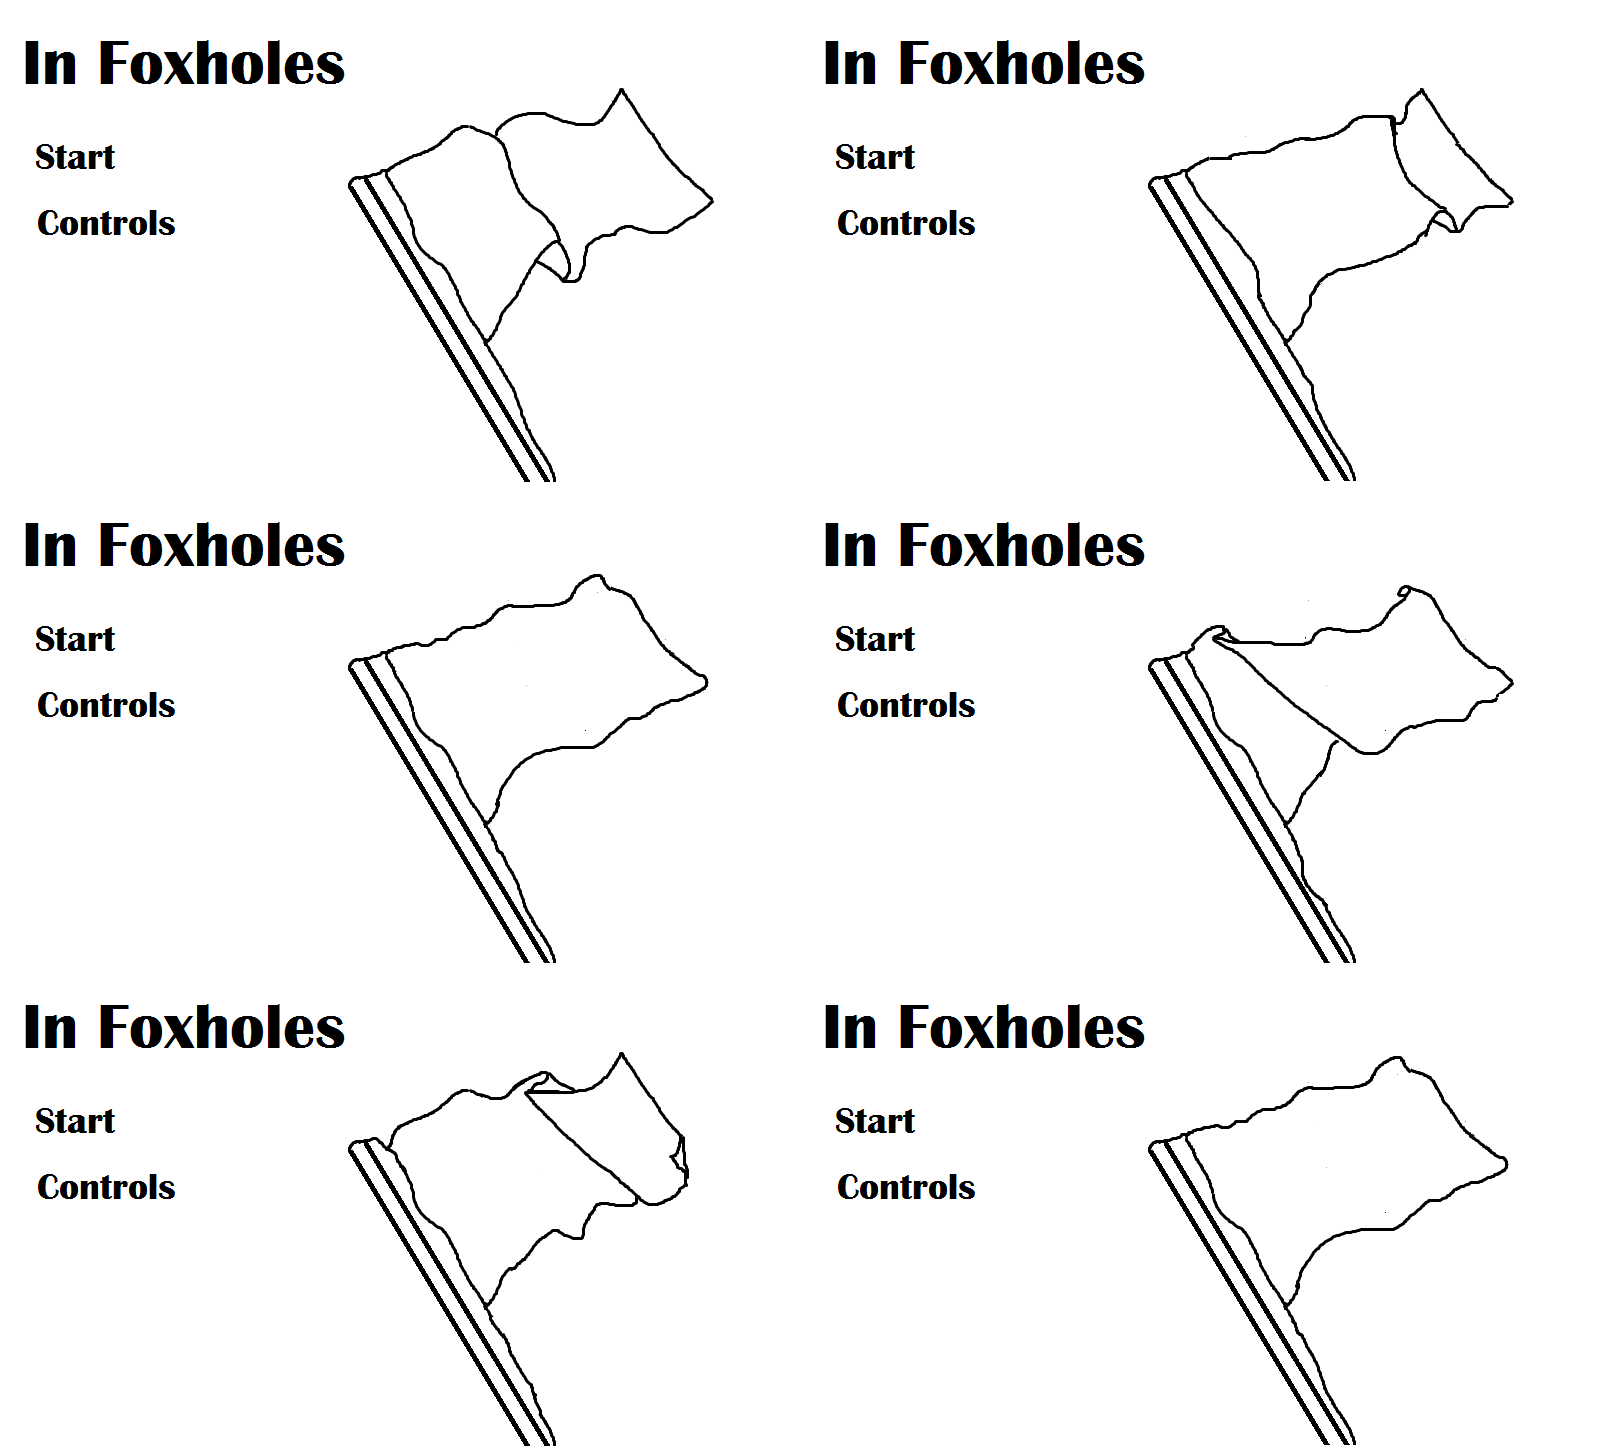
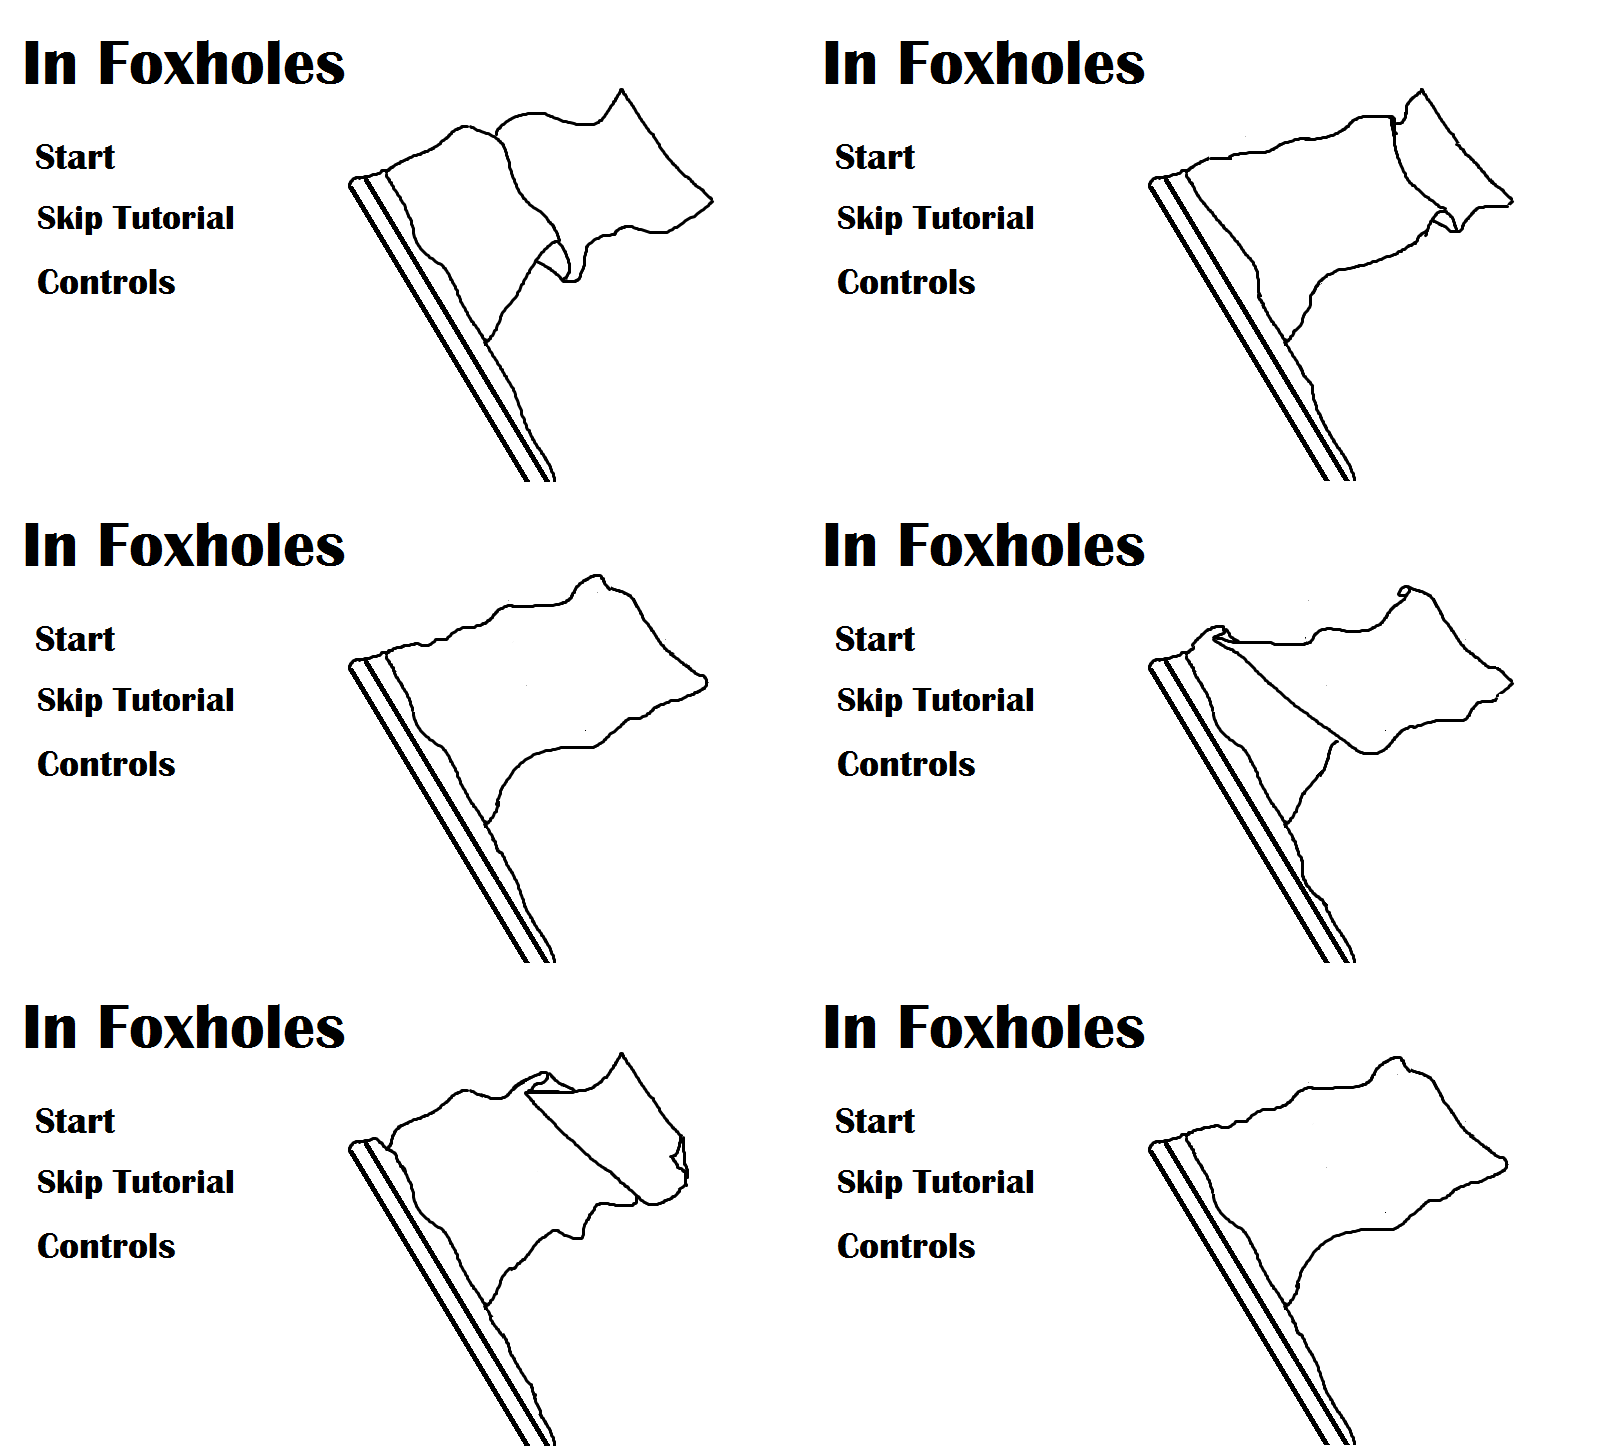
Added Tutorial Skipping

diff --git a/InFoxholes/Windows/Menu.cs b/InFoxholes/Windows/Menu.cs
@@ -5,6 +5,7 @@ using Microsoft.Xna.Framework.Input;
 using Microsoft.Xna.Framework.Audio;
 using Microsoft.Xna.Framework.Media;
 using System;
+using System.Collections.Generic;
 using InFoxholes.Util;
 
 
@@ -14,10 +15,14 @@ namespace InFoxholes.Windows
     {
         public AnimatedSprite menuTexture;
         Button startButton;
+        Button skipButton;
         Button controlsButton;
+        List<Button> buttonList;
+        List<bool> buttonListHover;
         public static Texture2D pixel;
         bool hoverFlag = false;
         bool hoverFlagControls = false;
+        bool hoverFlagSkip = false;
         public static bool isInControllerMenu;
         public ControllerMenu controllerMenu;
         int selectedButton;
@@ -30,12 +35,18 @@ namespace InFoxholes.Windows
         /* Magic Numbers */
         static int startButtonLX = 30;
         static int startButtonLY = 135;
-        static int startButtonRX = 120;
-        static int startButtonRY = 175;
+        static int startButtonRX = 125;
+        static int startButtonRY = 180;
+
+        static int skipButtonLX = 30;
+        static int skipButtonLY = 195;
+        static int skipButtonRX = 250;
+        static int skipButtonRY = 240;
+
         static int controlsButtonLX = 30;
-        static int controlsButtonLY = 205;
+        static int controlsButtonLY = 260;
         static int controlsButtonRX = 180;
-        static int controlsButtonRY = 240;
+        static int controlsButtonRY = 305;
 
         int animationSpeed = 30;
         float thresholdLength = .8f;
@@ -51,6 +62,10 @@ namespace InFoxholes.Windows
                 new Vector2(startButtonRX, startButtonRY), "", Vector2.Zero);
             controlsButton = new Button(new Vector2(controlsButtonLX, controlsButtonLY),
                 new Vector2(controlsButtonRX, controlsButtonRY), "", Vector2.Zero);
+            skipButton = new Button(new Vector2(skipButtonLX, skipButtonLY),
+                new Vector2(skipButtonRX, skipButtonRY), "", Vector2.Zero);
+            buttonList = new List<Button>() { startButton, skipButton, controlsButton };
+            buttonListHover = new List<bool>() { hoverFlag, hoverFlagSkip, hoverFlagControls };
             pixel = new Texture2D(spriteBatch.GraphicsDevice, 1, 1, false, SurfaceFormat.Color);
             pixel.SetData(new[] { Color.White });
             isInControllerMenu = false;
@@ -78,47 +93,54 @@ namespace InFoxholes.Windows
             }
             else
             {
-                if (gamepadState.IsConnected)
+                if (MainGame.currentGamepadState.IsConnected)
                 {
-                    if (selectedButton == 0)
+                    if (MainGame.currentGamepadState.DPad.Up == ButtonState.Pressed && MainGame.previousGamepadState.DPad.Up != ButtonState.Pressed ||
+                        MainGame.currentGamepadState.DPad.Left == ButtonState.Pressed && MainGame.previousGamepadState.DPad.Left != ButtonState.Pressed ||
+                        (MainGame.currentGamepadState.ThumbSticks.Left.Length() > thresholdLength && !(MainGame.previousGamepadState.ThumbSticks.Left.Length() > thresholdLength)
+                        && MainGame.currentGamepadState.ThumbSticks.Left.Y > 0))
                     {
-                        hoverFlag = true;
-                        hoverFlagControls = false;
-                        if (gamepadState.Buttons.A == ButtonState.Pressed && MainGame.previousGamepadState.Buttons.A != ButtonState.Pressed)
+                        Menu.scrollClickEffectInstance.Play();
+                        if (selectedButton == 0) selectedButton = buttonList.Count - 1;
+                        else selectedButton--;
+                    }
+                    else if (MainGame.currentGamepadState.DPad.Down == ButtonState.Pressed && MainGame.previousGamepadState.DPad.Down != ButtonState.Pressed ||
+                        MainGame.currentGamepadState.DPad.Right == ButtonState.Pressed && MainGame.previousGamepadState.DPad.Right != ButtonState.Pressed ||
+                        (MainGame.currentGamepadState.ThumbSticks.Left.Length() > thresholdLength && !(MainGame.previousGamepadState.ThumbSticks.Left.Length() > thresholdLength)
+                        && MainGame.currentGamepadState.ThumbSticks.Left.Y < 0))
+                    {
+                        Menu.scrollClickEffectInstance.Play();
+                        if (selectedButton == buttonList.Count - 1) selectedButton = 0;
+                        else selectedButton++;
+                    }
+
+                    for (int i = 0; i < buttonList.Count; i++)
+                    {
+                        if (i == selectedButton) buttonListHover[i] = true;
+                        else buttonListHover[i] = false;
+                    }
+
+                    if (MainGame.currentGamepadState.Buttons.A == ButtonState.Pressed && MainGame.previousGamepadState.Buttons.A != ButtonState.Pressed)
+                    {
+                        Menu.confirmClickEffectInstance.Play();
+                        if (selectedButton == 0)
                         {
-                            confirmClickEffectInstance.Play();
                             MainGame.isInMenu = false;
                             MediaPlayer.Stop();
                             windEffectInstance.Stop();
                             flagEffectInstance.Stop();
                         }
-                        if (gamepadState.DPad.Down == ButtonState.Pressed  && MainGame.previousGamepadState.DPad.Down != ButtonState.Pressed ||
-                            gamepadState.DPad.Up == ButtonState.Pressed && MainGame.previousGamepadState.DPad.Up != ButtonState.Pressed ||
-                            gamepadState.DPad.Left == ButtonState.Pressed && MainGame.previousGamepadState.DPad.Left != ButtonState.Pressed ||
-                            gamepadState.DPad.Right == ButtonState.Pressed && MainGame.previousGamepadState.DPad.Right != ButtonState.Pressed ||
-                            gamepadState.ThumbSticks.Left.Length() > thresholdLength && !(MainGame.previousGamepadState.ThumbSticks.Left.Length() > thresholdLength))
+                        else if (selectedButton == 1)
                         {
-                            scrollClickEffectInstance.Play();
-                            selectedButton = 1;
+                            MainGame.isInMenu = false;
+                            MainGame.skipTutorial = true;
+                            MediaPlayer.Stop();
+                            windEffectInstance.Stop();
+                            flagEffectInstance.Stop();
                         }
-                    }
-                    else if (selectedButton == 1)
-                    {
-                        hoverFlag = false;
-                        hoverFlagControls = true;
-                        if (gamepadState.Buttons.A == ButtonState.Pressed && MainGame.previousGamepadState.Buttons.A != ButtonState.Pressed)
+                        else if (selectedButton == 2)
                         {
-                            confirmClickEffectInstance.Play();
                             isInControllerMenu = true;
-                        }
-                        if (gamepadState.DPad.Down == ButtonState.Pressed && MainGame.previousGamepadState.DPad.Down != ButtonState.Pressed ||
-                            gamepadState.DPad.Up == ButtonState.Pressed && MainGame.previousGamepadState.DPad.Up != ButtonState.Pressed ||
-                            gamepadState.DPad.Left == ButtonState.Pressed && MainGame.previousGamepadState.DPad.Left != ButtonState.Pressed ||
-                            gamepadState.DPad.Right == ButtonState.Pressed && MainGame.previousGamepadState.DPad.Right != ButtonState.Pressed ||
-                            gamepadState.ThumbSticks.Left.Length() > thresholdLength && !(MainGame.previousGamepadState.ThumbSticks.Left.Length() > thresholdLength))
-                        {
-                            scrollClickEffectInstance.Play();
-                            selectedButton = 0;
                         }
                     }
                 }
@@ -140,6 +162,24 @@ namespace InFoxholes.Windows
                     else
                     {
                         hoverFlag = false;
+                    }
+                    if (skipButton.mouseIsOverButton(Mouse.GetState().X, Mouse.GetState().Y))
+                    {
+                        if (hoverFlagSkip == false) scrollClickEffectInstance.Play();
+                        hoverFlagSkip = true;
+                        if (Mouse.GetState().LeftButton == ButtonState.Pressed && MainGame.previousMouseState.LeftButton != ButtonState.Pressed)
+                        {
+                            confirmClickEffectInstance.Play();
+                            MainGame.isInMenu = false;
+                            MainGame.skipTutorial = true;
+                            MediaPlayer.Stop();
+                            windEffectInstance.Stop();
+                            flagEffectInstance.Stop();
+                        }
+                    }
+                    else
+                    {
+                        hoverFlagSkip = false;
                     }
                     if (controlsButton.mouseIsOverButton(Mouse.GetState().X, Mouse.GetState().Y))
                     {
@@ -169,8 +209,18 @@ namespace InFoxholes.Windows
             {
                 menuTexture.Update();
                 menuTexture.Draw(spriteBatch, Vector2.Zero,  1f, SpriteEffects.None);
-                startButton.Draw(spriteBatch, pixel, hoverFlag, Color.Black);
-                controlsButton.Draw(spriteBatch, pixel, hoverFlagControls, Color.Black);
+
+                if (MainGame.currentGamepadState.IsConnected)
+                {
+                    for (int i = 0; i < buttonList.Count; i++)
+                        buttonList[i].Draw(spriteBatch, pixel, buttonListHover[i], Color.Black);
+                }
+                else
+                {
+                    startButton.Draw(spriteBatch, pixel, hoverFlag, Color.Black);
+                    controlsButton.Draw(spriteBatch, pixel, hoverFlagControls, Color.Black);
+                    skipButton.Draw(spriteBatch, pixel, hoverFlagSkip, Color.Black);
+                }
             }
         }
     }

diff --git a/InFoxholes/Windows/MainGame.cs b/InFoxholes/Windows/MainGame.cs
@@ -41,6 +41,7 @@ namespace InFoxholes.Windows
         public static bool isInfiniteAmmoMode;
         public static bool isInfiniteFoodMode;
         public static SpriteFont font;
+        public static bool skipTutorial;
 
         //How to Write to Console: System.Diagnostics.Debug.WriteLine();
 
@@ -60,6 +61,7 @@ namespace InFoxholes.Windows
             Content.RootDirectory = "Content";
             gameOver = false;
             isInMenu = true;
+            skipTutorial = false;
             isInfiniteAmmoMode = false;
             isInfiniteFoodMode = false;
             graphics.IsFullScreen = false;
@@ -103,6 +105,7 @@ namespace InFoxholes.Windows
             sniperRifle.Initialize(Content, spriteBatch, 0, startingSniperAmmo, waveManager);
             machineGun.Initialize(Content, spriteBatch, 1, startingMachinegunAmmo, waveManager);
             scavengerManager.Initialize(Content, 3, numStartingLives, waveManager);
+            waveManager.setScavengerManager(scavengerManager);
             player.Initialize(Content, startingFood, 2, waveManager);
 
         }
@@ -139,6 +142,11 @@ namespace InFoxholes.Windows
             }
             else
             {
+                if (skipTutorial)
+                {
+                    waveManager.skipTutorialWaves();
+                    skipTutorial = false;
+                }
                 if (waveManager.State != 0 && (Keyboard.GetState().IsKeyDown(Keys.R) || currentGamepadState.Buttons.X == ButtonState.Pressed))
                 {
                     weapon.reload(gameTime);
@@ -176,7 +184,7 @@ namespace InFoxholes.Windows
                     }
                 }
                 crosshair.Update(currentMouseState, weapon, gameTime, waveManager.getWave(), scavengerManager.getActiveScavenger(), GraphicsDevice);
-                waveManager.Update(gameTime, scavengerManager);
+                waveManager.Update(gameTime);
                 scavengerManager.Update(scavengeCommand, gameTime, waveManager.getWave());
 
             }

diff --git a/InFoxholes/Waves/WaveManager.cs b/InFoxholes/Waves/WaveManager.cs
@@ -27,6 +27,7 @@ namespace InFoxholes.Waves
         int secondsLeft;
         public ConversationManager conversationManager;
         bool delegateToConvo;
+        ScavengerManager scavengerManager;
 
         /* Magic Numbers */
         double gracePeriodLength = 15000;
@@ -65,12 +66,16 @@ namespace InFoxholes.Waves
             getWave().applyModes();
         }
 
+        public void setScavengerManager(ScavengerManager scavengermanager) {
+            scavengerManager = scavengermanager;
+        }
+
         public bool isHit(Vector2 crosshairPosition)
         {
             return getWave().isHit(crosshairPosition);
         }
 
-        public void Update(GameTime gametime, ScavengerManager scavengerManager)
+        public void Update(GameTime gametime)
         {
             if (State == 0)
             {
@@ -175,6 +180,15 @@ namespace InFoxholes.Waves
             {
                 currentWave++;
                 getWave().applyModes();
+            }
+        }
+
+        public void skipTutorialWaves()
+        {
+            while (getWave().isTutorialWave)
+            {
+                nextWave();
+                scavengerManager.returnToTrench();
             }
         }
     }

diff --git a/InFoxholes/Waves/TutorialWave2.cs b/InFoxholes/Waves/TutorialWave2.cs
@@ -15,6 +15,7 @@ namespace InFoxholes.Waves
         {
             infiniteAmmoModeOn = true;
             infiniteFoodModeOn = true;
+            isTutorialWave = true;
             spawnTimings = new List<double>(waveSize);
             enemiesToSpawn = new List<Enemy>(waveSize);
             lootList = new List<Loot>(waveSize);

diff --git a/InFoxholes/Waves/OpeningWave.cs b/InFoxholes/Waves/OpeningWave.cs
@@ -20,6 +20,7 @@ namespace InFoxholes.Waves
         {
             infiniteAmmoModeOn = false;
             infiniteFoodModeOn = false;
+            isTutorialWave = false;
             waveSize = wavesize;
             spawnTimings = new List<double>(waveSize);
             enemiesToSpawn = new List<Enemy>(waveSize);

diff --git a/InFoxholes/Waves/Wave2.cs b/InFoxholes/Waves/Wave2.cs
@@ -20,6 +20,7 @@ namespace InFoxholes.Waves
         {
             infiniteAmmoModeOn = false;
             infiniteFoodModeOn = false;
+            isTutorialWave = false;
             waveSize = wavesize;
             spawnTimings = new List<double>(waveSize);
             enemiesToSpawn = new List<Enemy>(waveSize);

diff --git a/InFoxholes/Waves/TutorialWave3.cs b/InFoxholes/Waves/TutorialWave3.cs
@@ -19,6 +19,7 @@ namespace InFoxholes.Waves
         {
             infiniteAmmoModeOn = false;
             infiniteFoodModeOn = true;
+            isTutorialWave = true;
             waveSize = wavesize;
             spawnTimings = new List<double>(waveSize);
             enemiesToSpawn = new List<Enemy>(waveSize);

diff --git a/InFoxholes/Waves/Wave1.cs b/InFoxholes/Waves/Wave1.cs
@@ -19,6 +19,7 @@ namespace InFoxholes.Waves
         {
             infiniteAmmoModeOn = true;
             infiniteFoodModeOn = true;
+            isTutorialWave = false;
             waveSize = wavesize;
             spawnTimings = new List<double>(waveSize);
             enemiesToSpawn = new List<Enemy>(waveSize);

diff --git a/InFoxholes/Waves/TutorialWave1.cs b/InFoxholes/Waves/TutorialWave1.cs
@@ -19,6 +19,7 @@ namespace InFoxholes.Waves
         {
             infiniteAmmoModeOn = true;
             infiniteFoodModeOn = true;
+            isTutorialWave = true;
             waveSize = wavesize;
             spawnTimings = new List<double>(waveSize);
             enemiesToSpawn = new List<Enemy>(waveSize);

diff --git a/InFoxholes/Waves/Wave.cs b/InFoxholes/Waves/Wave.cs
@@ -27,6 +27,7 @@ namespace InFoxholes.Waves
         public String openingTextFilename;
         public WaveManager waveManager;
         public Layout layout;
+        public bool isTutorialWave;
 
 
         virtual public void Initialize(ContentManager content, WaveManager manager)
